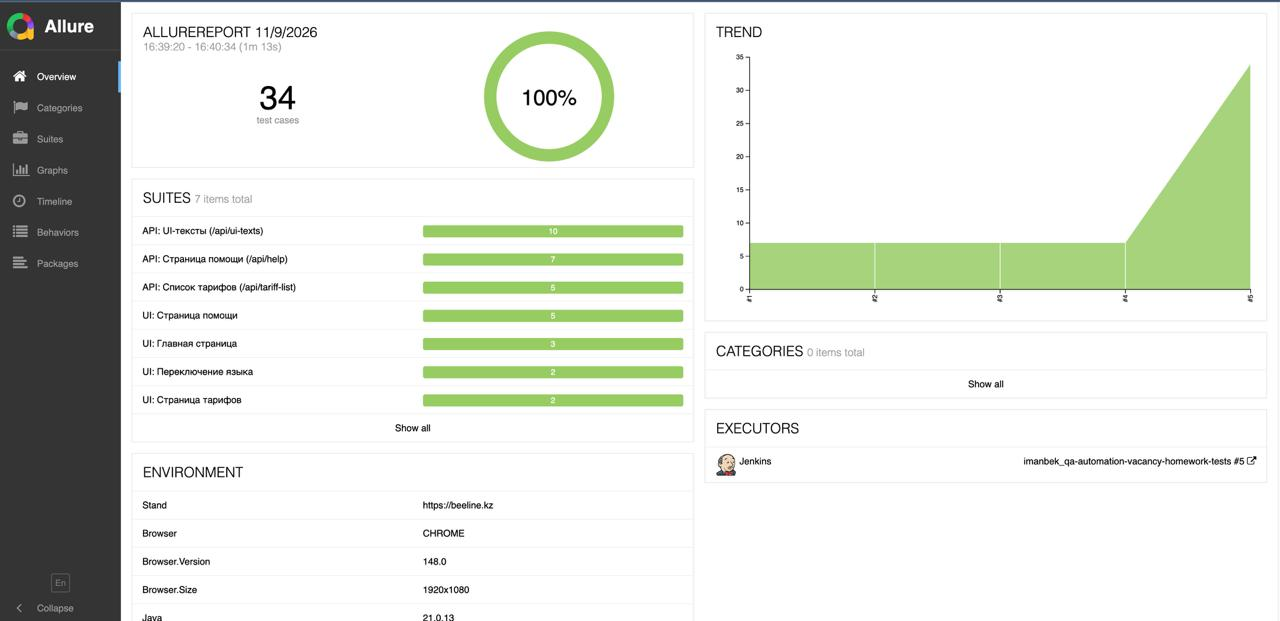
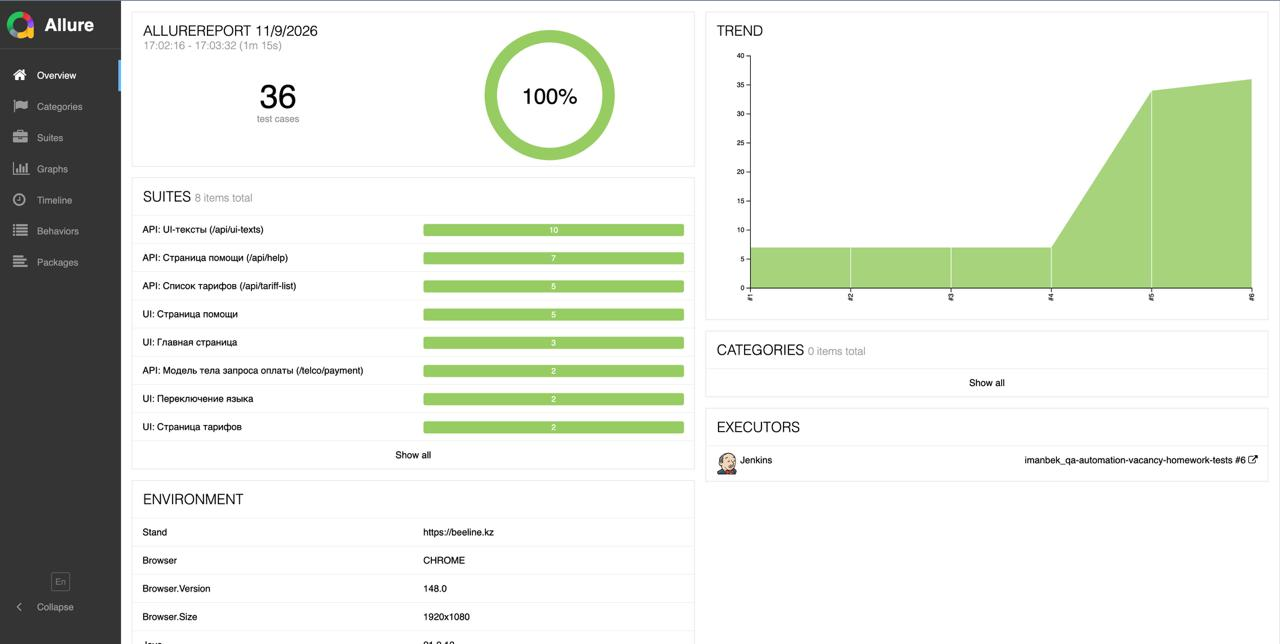
Add author contacts to README and update Allure screenshot

diff --git a/README.md b/README.md
@@ -233,3 +233,12 @@ src/test
 ```
 
 Ручные тест-кейсы — в `docs/manual-test-cases.md`.
+
+## 👤 Автор
+
+**Бексултан Иманбек** — QA Automation Engineer (Java), Алматы
+
+- GitHub: [imvnbk](https://github.com/imvnbk)
+- Telegram: [@imvnbk](https://t.me/imvnbk)
+- LinkedIn: [imvnbk](https://www.linkedin.com/in/imvnbk)
+- hh.ru: [резюме](https://hh.ru/resume/dbb77fe1ff060dcd510039ed1f6855394e4670)
